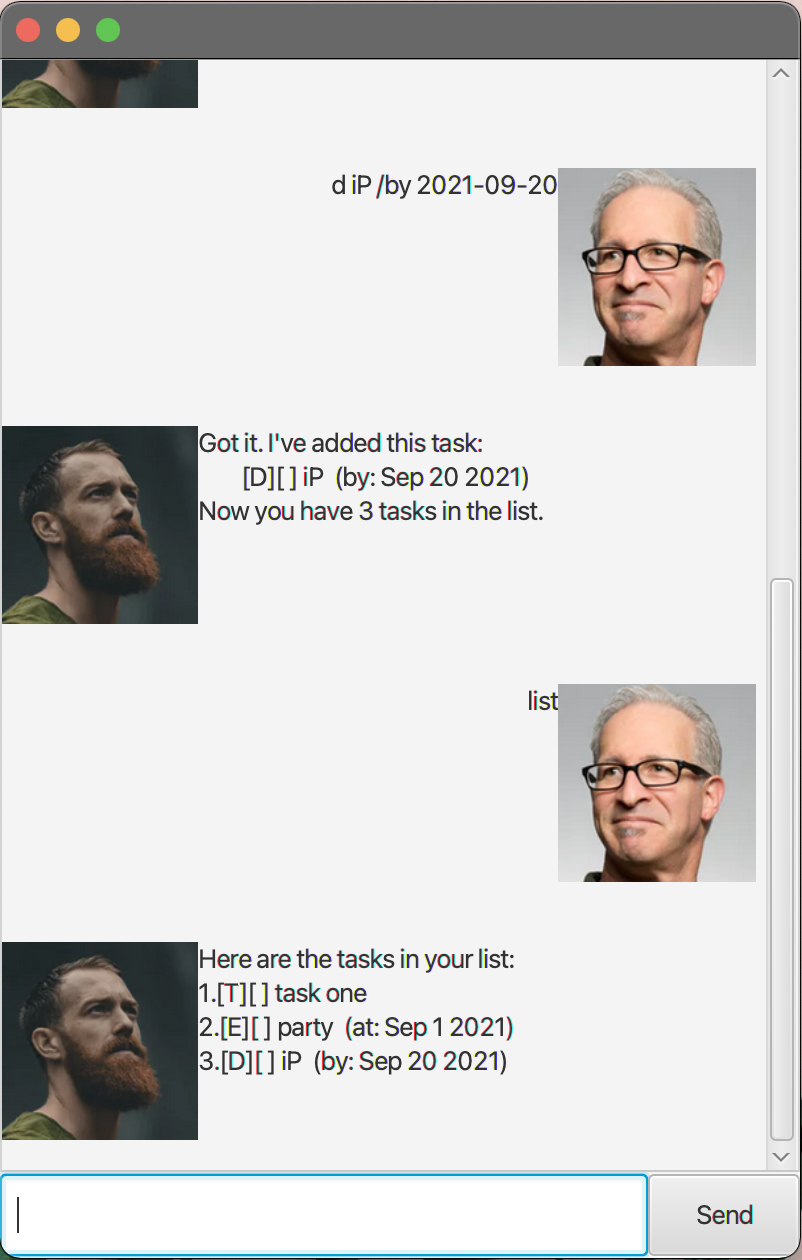
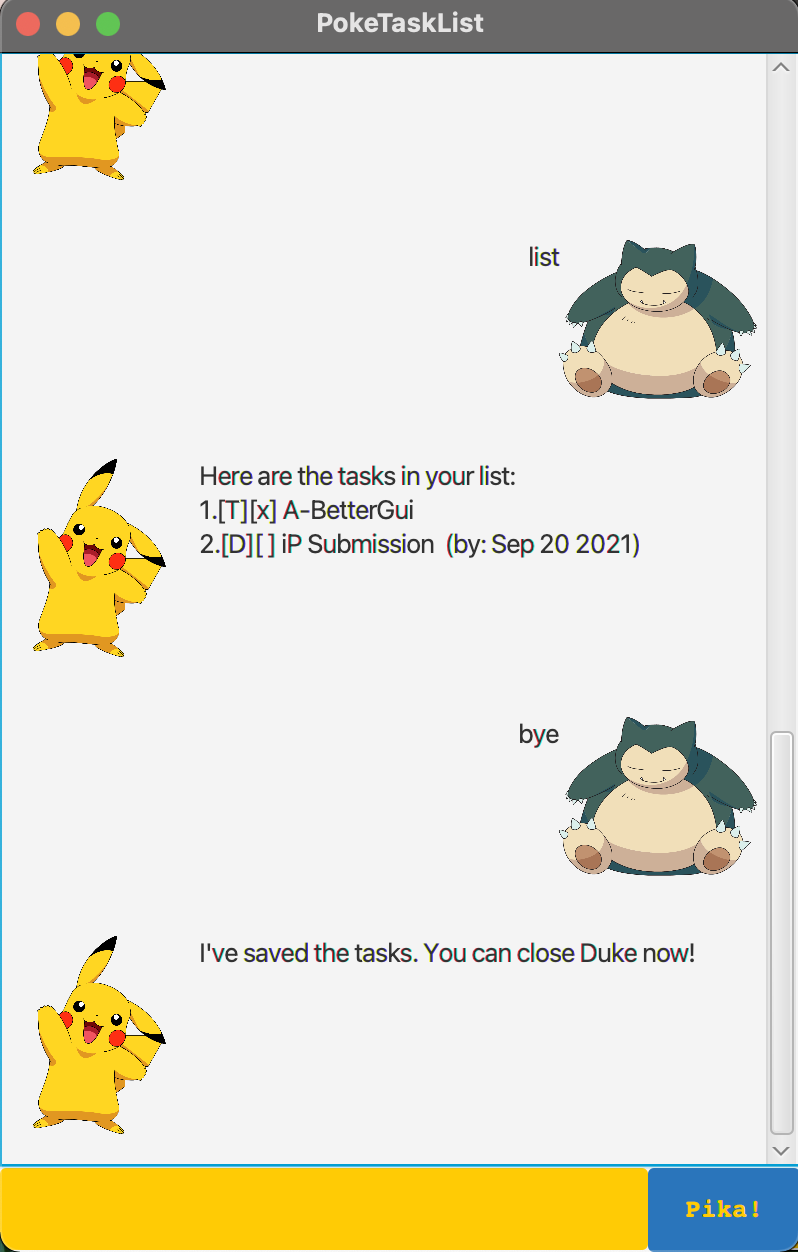
A-BetterGui: Gui Adjustments
Change avatar pics, add application title and Pokémon theme.

diff --git a/src/main/java/duke/MainWindow.java b/src/main/java/duke/MainWindow.java
@@ -22,8 +22,8 @@ public class MainWindow extends AnchorPane {
 
     private Duke duke;
 
-    private Image userImage = new Image(this.getClass().getResourceAsStream("/images/DaUser.png"));
-    private Image dukeImage = new Image(this.getClass().getResourceAsStream("/images/DaDuke.png"));
+    private Image userImage = new Image(this.getClass().getResourceAsStream("/images/snorlax.png"));
+    private Image dukeImage = new Image(this.getClass().getResourceAsStream("/images/pika.png"));
 
     @FXML
     public void initialize() {

diff --git a/src/main/java/duke/Main.java b/src/main/java/duke/Main.java
@@ -22,6 +22,7 @@ public class Main extends Application {
             AnchorPane ap = fxmlLoader.load();
             Scene scene = new Scene(ap);
             stage.setScene(scene);
+            stage.setTitle("PokeTaskList");
             fxmlLoader.<MainWindow>getController().setDuke(duke);
             stage.show();
         } catch (IOException e) {
